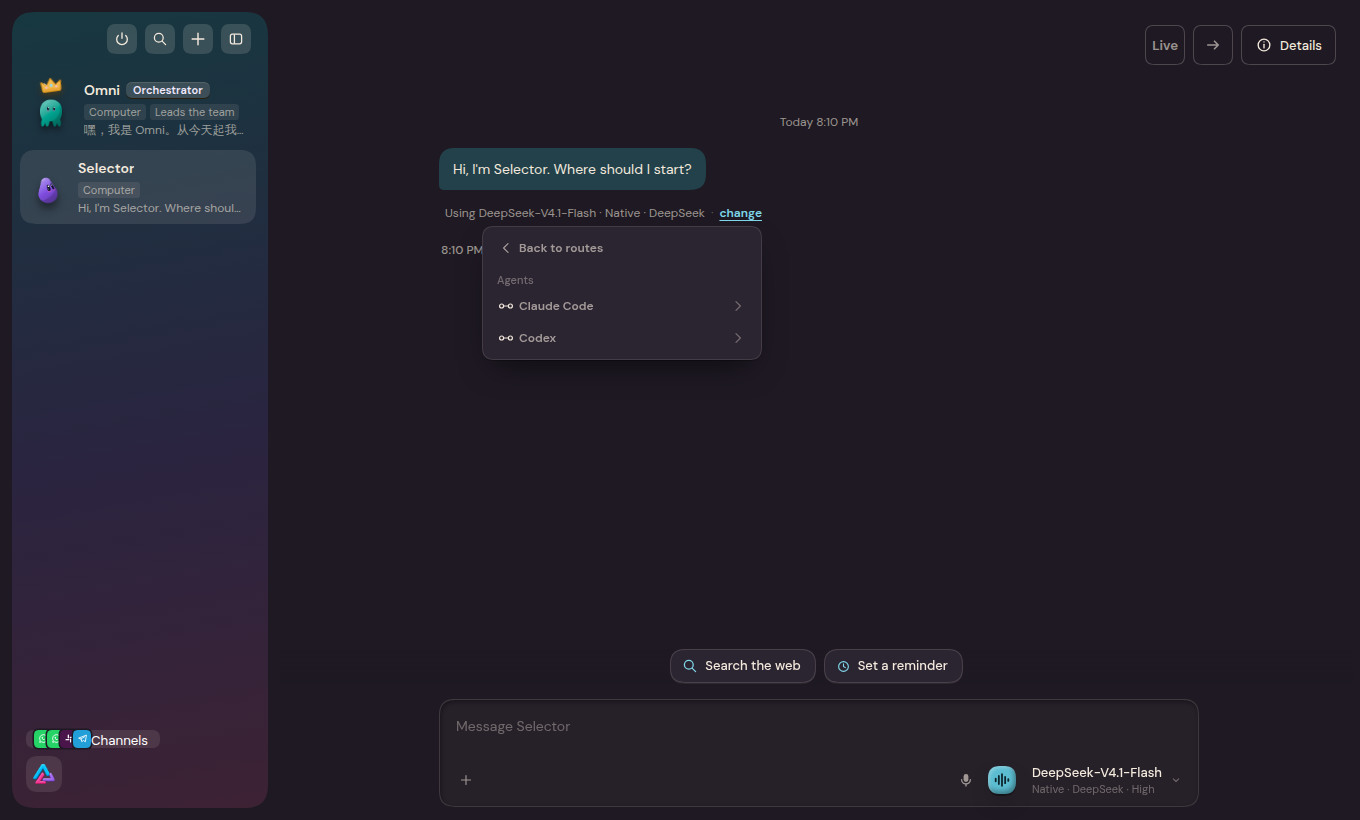
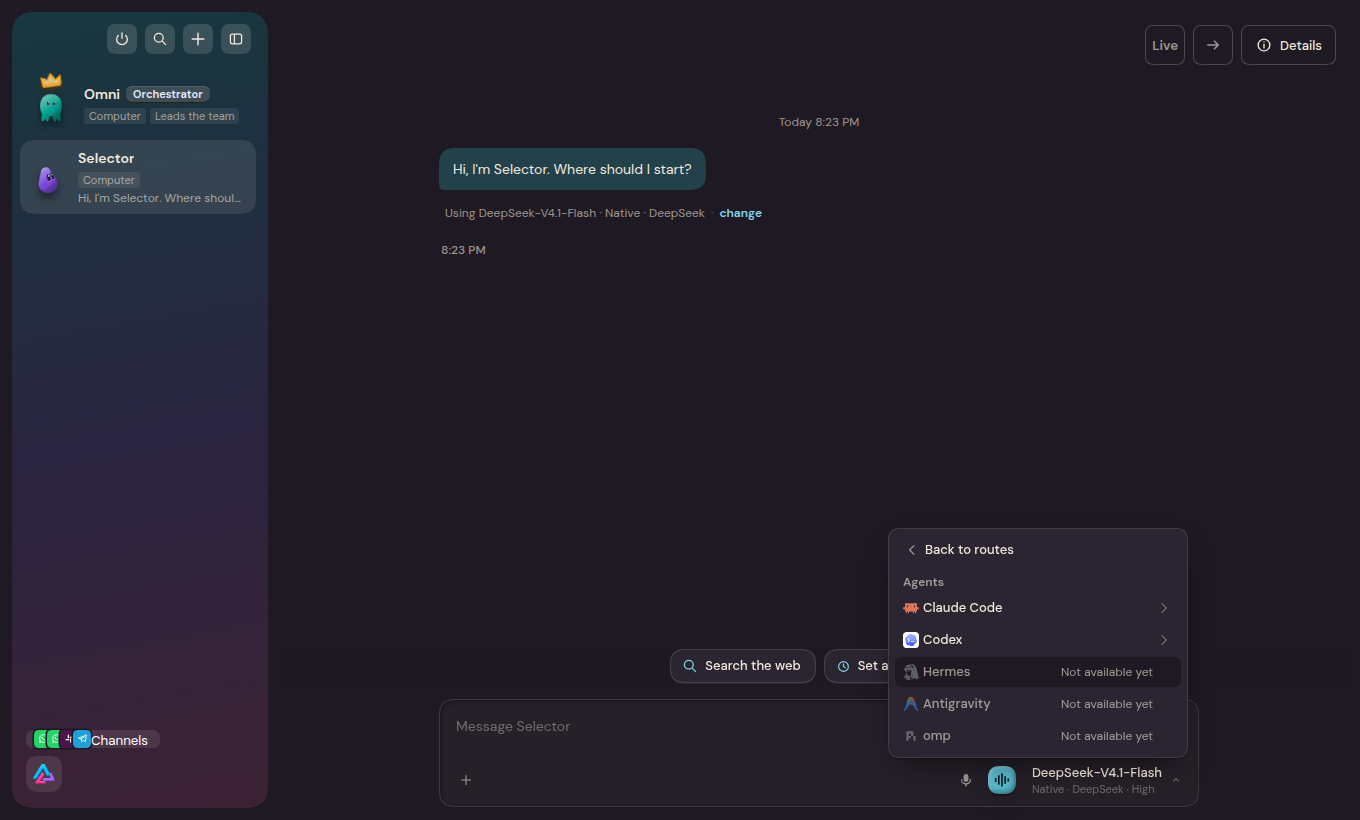
docs(pr): re-shoot the selector from the composer model button (#1016)
The same twelve light and dark shots from the running app, now opened from
the composer's model button, with the official agent marks, the five named
ACP agents, the readable menu and the dimmed Herdr rows. The sample team is
English throughout.

diff --git a/docs/pr/1016-shots/README.md b/docs/pr/1016-shots/README.md
@@ -1,16 +1,19 @@
 # Route-first model selector: screenshots
 
 Captured from a running Automagik desktop build carrying this branch, in a Bot's real chat
-(`Selector`), with the repository's scripted model. Light and dark are the app's own theme
-(`prefers-color-scheme` through DSH's theme preference), not a recolored mockup.
+(`Selector`), with the repository's English scripted model. Light and dark are the app's own
+theme (`prefers-color-scheme` through DSH's theme preference), not a recolored mockup. The
+model menu is opened from the **composer's model button** (bottom right), not from the
+`change` link under the greeting.
 
 | Screenshot | What it shows |
 |---|---|
-| `route-{light,dark}.png` | The first level: Native, ACP and Herdr, in that order, with the current route marked and ACP's expansion on the row. |
+| `route-{light,dark}.png` | The first level: Native, ACP and Herdr, in that order, with the current route marked and ACP's full expansion on the row. The menu is anchored above the composer button. |
 | `native-models-{light,dark}.png` | Native's models, one list under their provider; the Bot's model is ticked. |
-| `acp-agents-{light,dark}.png` | ACP's second level: the agents acp-dsh serves (Claude Code and Codex here; Hermes, Antigravity, omp and any later agent appear without a selector change). |
+| `acp-agents-{light,dark}.png` | ACP's second level: Claude Code and Codex with their own marks, then Hermes, Antigravity and omp shown dimmed and `Not available yet` until #973 serves them (their own marks are shown too). |
 | `acp-models-{light,dark}.png` | One ACP agent's models, reached after the agent. |
 | `route-confirm-{light,dark}.png` | The crossing, after a model on another route is picked and before anything is applied: the new conversation and the handoff note are named, with Keep this conversation and Change route. |
-| `herdr-{light,dark}.png` | Herdr's interim state: its agents and models are shown, clearly labelled `Not available yet`, until #1007/RFC 0030 wires the terminal. |
+| `herdr-{light,dark}.png` | Herdr's interim state: its agents are shown with their marks, dimmed and `Not available yet`, with no chevrons, until #1007/RFC 0030 wires the terminal. |
 
-The screenshots carry no token, machine name or filesystem path.
+The sample team is English throughout. The screenshots carry no token, machine name or
+filesystem path.
